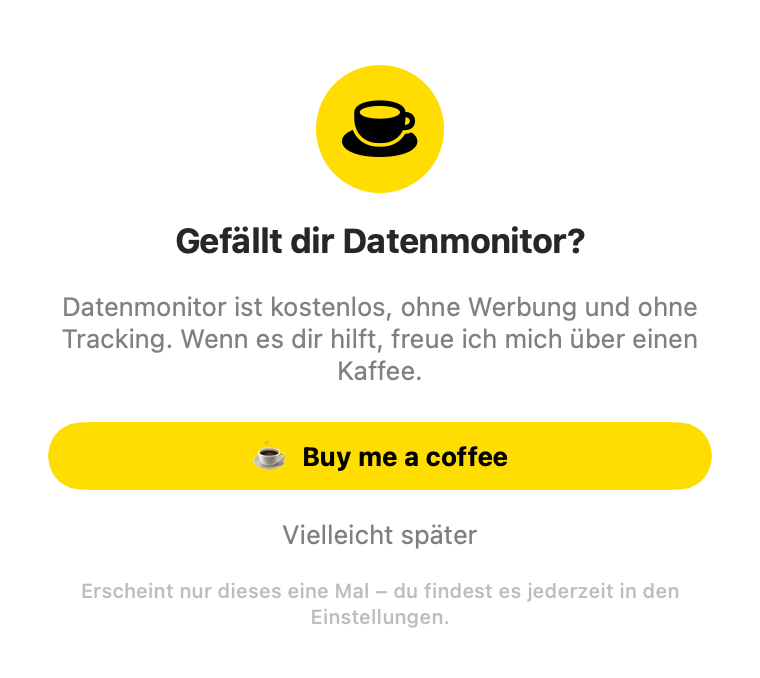
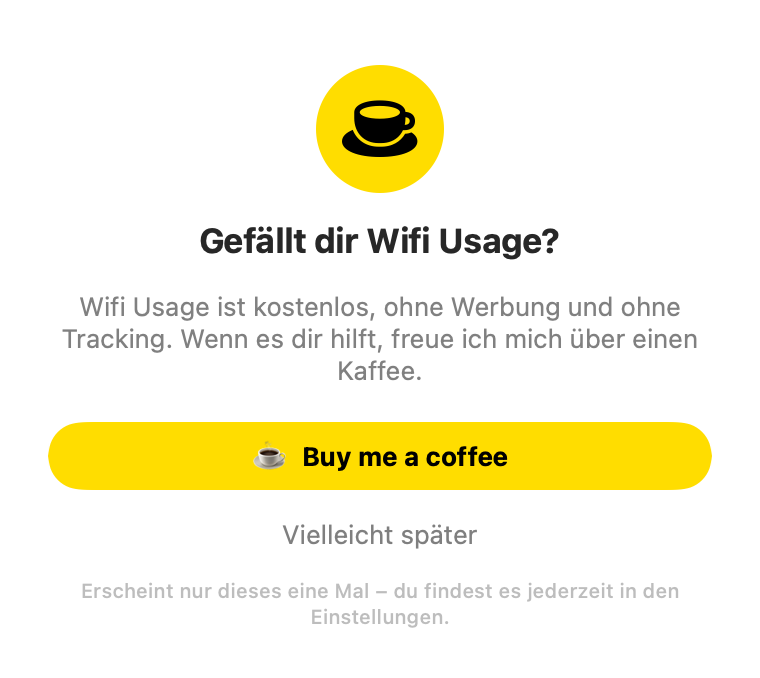
Umbenannt in Wifi Usage (Version 2.4)
App heißt sichtbar 'Wifi Usage' (Wifi Usage.app, Menü, Dialoge, README, Screenshots),
Quelldatei WifiUsage.swift. Interne Kennungen (Bundle-ID, Datenordner, Schlüsselbund,
launchd-Label) bleiben, damit Ortungsfreigabe, Passwörter und Verlauf erhalten bleiben.

Changed region(s): [[0.0605, 0.4336, 0.9382, 0.4956], [0.2118, 0.3097, 0.7868, 0.4027]]

diff --git a/WifiUsage.swift b/WifiUsage.swift
@@ -1,4 +1,4 @@
-// DatenmonitorWidget.swift
+// WifiUsage.swift
 // ---------------------------------------------------------------------------
 // Menüleisten-Widget für den WLAN-Datenverbrauch — im Stats-Stil.
 // Oben klein der WLAN-Name, darunter der Verbrauch (GB) im laufenden Monat
@@ -9,7 +9,7 @@
 //
 // Netz-Erkennung:
 //   - Name = echte SSID über CoreWLAN. macOS gibt sie nur mit Ortungsdienste-Freigabe
-//     heraus, deshalb läuft das Widget als kleine Datenmonitor.app (siehe install-widget.sh).
+//     heraus, deshalb läuft das Widget als kleine Wifi Usage.app (siehe install-widget.sh).
 //   - Router-MAC (via `arp`) wird der SSID zugeordnet, damit ältere Einträge
 //     (vor der Freigabe gezählt) automatisch unter dem echten Namen zusammenlaufen.
 //
@@ -34,7 +34,7 @@ let SAMPLE_INTERVAL: TimeInterval = 20
 let GIB: Double = 1_073_741_824
 let SSID_PREFIX = "ssid:"          // Schlüssel für Netze mit bekannter SSID: "ssid:<Name>"
 let UNKNOWN_KEY = "unbekannt"       // weder SSID noch Router-MAC ermittelbar
-let APP_VERSION = "2.3"
+let APP_VERSION = "2.4"
 
 // Buy Me a Coffee: hier deinen eigenen Link eintragen (Anleitung in der README).
 let COFFEE_URL = "https://buymeacoffee.com/suntinger"
@@ -381,9 +381,9 @@ struct WifiCredentials: Codable {
     var password: String
 }
 
-/// WLAN-Zugangsdaten, die du in Datenmonitor eingegeben hast — alle zusammen in **einem**
-/// Eintrag deines Anmelde-Schlüsselbunds („Datenmonitor – WLAN-Zugangsdaten“). macOS speichert ihn
-/// verschlüsselt (entsperrt nur mit deinem Login); ohne Rückfrage lesen darf ihn nur Datenmonitor.
+/// WLAN-Zugangsdaten, die du in Wifi Usage eingegeben hast — alle zusammen in **einem**
+/// Eintrag deines Anmelde-Schlüsselbunds („Wifi Usage – WLAN-Zugangsdaten“). macOS speichert ihn
+/// verschlüsselt (entsperrt nur mit deinem Login); ohne Rückfrage lesen darf ihn nur Wifi Usage.
 /// Ein gemeinsamer Eintrag statt einem pro WLAN: Nach einem Update fragt macOS nur einmal nach,
 /// nicht für jedes Netz. Gelesen wird einmal, danach aus dem Speicher. Passwörter landen nie in
 /// Dateien, im Log oder in Prozess-Argumenten und werden erst nach erfolgreicher Verbindung gespeichert.
@@ -419,7 +419,7 @@ enum SavedPasswords {
         guard status == errSecSuccess, let data = out as? Data,
               let v = try? JSONDecoder().decode([String: WifiCredentials].self, from: data) else {
             unreadable = true
-            NSLog("Datenmonitor: gespeicherte WLAN-Zugangsdaten nicht lesbar (Status \(status)) – frage in dieser Sitzung nicht erneut")
+            NSLog("Wifi Usage: gespeicherte WLAN-Zugangsdaten nicht lesbar (Status \(status)) – frage in dieser Sitzung nicht erneut")
             return nil
         }
         cache = v
@@ -434,7 +434,7 @@ enum SavedPasswords {
         if status == errSecItemNotFound {
             var add = query(vaultService, vaultAccount)
             add[kSecValueData as String] = data
-            add[kSecAttrLabel as String] = "Datenmonitor – WLAN-Zugangsdaten"
+            add[kSecAttrLabel as String] = "Wifi Usage – WLAN-Zugangsdaten"
             add[kSecAttrAccessible as String] = kSecAttrAccessibleWhenUnlocked   // nur bei entsperrtem Mac
             status = SecItemAdd(add as CFDictionary, nil)
         }
@@ -780,7 +780,7 @@ final class AppController: NSObject, NSApplicationDelegate, NSMenuDelegate, CLLo
         // Ortungsdienste: nur nötig, damit macOS den WLAN-Namen herausgibt.
         location.delegate = self
         Prefs.shared.locationGranted = locationGranted
-        NSLog("Datenmonitor: Start, Ortungsstatus \(location.authorizationStatus.rawValue), SSID \(Wifi.iface?.ssid() == nil ? "nicht lesbar" : "lesbar")")
+        NSLog("Wifi Usage: Start, Ortungsstatus \(location.authorizationStatus.rawValue), SSID \(Wifi.iface?.ssid() == nil ? "nicht lesbar" : "lesbar")")
         if location.authorizationStatus == .notDetermined {
             NSApp.activate(ignoringOtherApps: true)
             location.requestWhenInUseAuthorization()
@@ -834,7 +834,7 @@ final class AppController: NSObject, NSApplicationDelegate, NSMenuDelegate, CLLo
     }
 
     func locationManagerDidChangeAuthorization(_ manager: CLLocationManager) {
-        NSLog("Datenmonitor: Ortungsstatus \(manager.authorizationStatus.rawValue), SSID \(Wifi.iface?.ssid() == nil ? "nicht lesbar" : "lesbar")")
+        NSLog("Wifi Usage: Ortungsstatus \(manager.authorizationStatus.rawValue), SSID \(Wifi.iface?.ssid() == nil ? "nicht lesbar" : "lesbar")")
         Prefs.shared.locationGranted = locationGranted
         refresh(); scanAsync()
     }
@@ -842,7 +842,7 @@ final class AppController: NSObject, NSApplicationDelegate, NSMenuDelegate, CLLo
     func prefsChanged() {
         updateTitle()
         overview.reload()
-        overviewWindow?.title = L("Datenmonitor – Übersicht", "Datenmonitor – Overview")
+        overviewWindow?.title = L("Wifi Usage – Übersicht", "Wifi Usage – Overview")
         settingsWindow?.title = L("Einstellungen", "Settings")
     }
 
@@ -1155,10 +1155,10 @@ final class AppController: NSObject, NSApplicationDelegate, NSMenuDelegate, CLLo
         if row.known && !secure {
             connect(ssid, attempt: {
                 let failure = CoreWiFi.joinKnown(ssid)
-                if let f = failure { NSLog("Datenmonitor: Verbinden mit \(ssid) fehlgeschlagen: \(f)") }
+                if let f = failure { NSLog("Wifi Usage: Verbinden mit \(ssid) fehlgeschlagen: \(f)") }
                 return failure
             }, retry: {
-                NSLog("Datenmonitor: \(ssid) nach 5 s nicht verbunden, neuer Versuch mit frischer Suche")
+                NSLog("Wifi Usage: \(ssid) nach 5 s nicht verbunden, neuer Versuch mit frischer Suche")
                 return CoreWiFi.joinKnown(ssid, freshScan: true)
             })
             return
@@ -1166,7 +1166,7 @@ final class AppController: NSObject, NSApplicationDelegate, NSMenuDelegate, CLLo
         // Offenes fremdes Netz: direkt.
         if !secure { joinWithPassword(ssid, credentials: nil, save: false); return }
 
-        // Geschützt: mit den in Datenmonitor gespeicherten Zugangsdaten, sonst einmal danach fragen.
+        // Geschützt: mit den in Wifi Usage gespeicherten Zugangsdaten, sonst einmal danach fragen.
         if let saved = saved, !enterprise || saved.username != nil {
             joinWithPassword(ssid, credentials: saved, save: false)
             return
@@ -1264,7 +1264,7 @@ final class AppController: NSObject, NSApplicationDelegate, NSMenuDelegate, CLLo
                 return nil
             }
             catch {
-                NSLog("Datenmonitor: Verbinden mit \(ssid) fehlgeschlagen: \(error.localizedDescription)")
+                NSLog("Wifi Usage: Verbinden mit \(ssid) fehlgeschlagen: \(error.localizedDescription)")
                 // Gleich ein zweiter Versuch mit frischer Suche: Hotspots scheitern beim ersten
                 // Mal oft kurz (Funkband-Wechsel), ohne dass das Passwort falsch wäre.
                 if !fresh { return attempt(fresh: true) }
@@ -1279,7 +1279,7 @@ final class AppController: NSObject, NSApplicationDelegate, NSMenuDelegate, CLLo
                 if save, let c = credentials {
                     DispatchQueue.global(qos: .utility).async {
                         if !SavedPasswords.set(ssid, c) {
-                            NSLog("Datenmonitor: Zugangsdaten für \(ssid) konnten nicht gespeichert werden")
+                            NSLog("Wifi Usage: Zugangsdaten für \(ssid) konnten nicht gespeichert werden")
                         }
                     }
                 }
@@ -1317,7 +1317,7 @@ final class AppController: NSObject, NSApplicationDelegate, NSMenuDelegate, CLLo
         joinAnimation = anim
         DispatchQueue.global(qos: .userInitiated).async {
             let started = Date()
-            NSLog("Datenmonitor: Wechsel zu \(ssid) gestartet (vorher: \(Wifi.iface?.ssid() ?? "kein WLAN"))")
+            NSLog("Wifi Usage: Wechsel zu \(ssid) gestartet (vorher: \(Wifi.iface?.ssid() ?? "kein WLAN"))")
             var lastMessage = attempt()
             var joined = false
             for step in 0..<30 {   // bis zu 15 s
@@ -1326,7 +1326,7 @@ final class AppController: NSObject, NSApplicationDelegate, NSMenuDelegate, CLLo
                 if step == 10, let retry = retry { lastMessage = retry() ?? lastMessage }   // nach 5 s einmal nachfassen
                 Thread.sleep(forTimeInterval: 0.5)
             }
-            NSLog("Datenmonitor: Wechsel zu \(ssid) " + (joined ? "verbunden" : "nicht verbunden")
+            NSLog("Wifi Usage: Wechsel zu \(ssid) " + (joined ? "verbunden" : "nicht verbunden")
                   + String(format: " nach %.1f s", Date().timeIntervalSince(started))
                   + (generation != self.joinGeneration ? " (überholt)" : ""))
             RunLoop.main.perform(inModes: [.common]) {
@@ -1399,7 +1399,7 @@ final class AppController: NSObject, NSApplicationDelegate, NSMenuDelegate, CLLo
 
     @objc func openOverview() {
         overview.reload()
-        show(&overviewWindow, title: L("Datenmonitor – Übersicht", "Datenmonitor – Overview"),
+        show(&overviewWindow, title: L("Wifi Usage – Übersicht", "Wifi Usage – Overview"),
              size: NSSize(width: 640, height: 760), resizable: true) { OverviewView(model: overview) }
     }
 
@@ -2499,8 +2499,8 @@ struct SettingsView: View {
             } header: {
                 Text(L("Berechtigungen", "Permissions"))
             } footer: {
-                Text(L("Die Ortungsdienste braucht macOS nur, um den WLAN-Namen herauszugeben – der Standort wird nie abgefragt. Datenmonitor liest nur die Netzwerkzähler des Systems und seinen eigenen Datenordner, daher ist kein Festplattenvollzugriff nötig.",
-                       "macOS only reveals the Wi-Fi name to apps with Location Services – your location is never requested. Datenmonitor only reads the system's network counters and its own data folder, so no Full Disk Access is needed."))
+                Text(L("Die Ortungsdienste braucht macOS nur, um den WLAN-Namen herauszugeben – der Standort wird nie abgefragt. Wifi Usage liest nur die Netzwerkzähler des Systems und seinen eigenen Datenordner, daher ist kein Festplattenvollzugriff nötig.",
+                       "macOS only reveals the Wi-Fi name to apps with Location Services – your location is never requested. Wifi Usage only reads the system's network counters and its own data folder, so no Full Disk Access is needed."))
                     .font(.caption).foregroundStyle(.secondary)
             }
 
@@ -2581,7 +2581,7 @@ struct SettingsView: View {
                 HStack(spacing: 12) {
                     CoffeeIcon(size: 36)
                     VStack(alignment: .leading, spacing: 2) {
-                        Text(L("Gefällt dir Datenmonitor?", "Enjoying Datenmonitor?")).fontWeight(.semibold)
+                        Text(L("Gefällt dir Wifi Usage?", "Enjoying Wifi Usage?")).fontWeight(.semibold)
                         Text(L("Spendier mir einen Kaffee ☕", "Buy me a coffee ☕"))
                             .font(.caption).foregroundStyle(.secondary)
                     }
@@ -2592,9 +2592,9 @@ struct SettingsView: View {
 
             Section {
                 HStack {
-                    Text("Datenmonitor \(APP_VERSION)").foregroundStyle(.secondary)
+                    Text("Wifi Usage \(APP_VERSION)").foregroundStyle(.secondary)
                     Spacer()
-                    Button(L("Datenmonitor beenden", "Quit Datenmonitor")) { NSApp.terminate(nil) }
+                    Button(L("Wifi Usage beenden", "Quit Wifi Usage")) { NSApp.terminate(nil) }
                 }
             }
         }
@@ -2655,10 +2655,10 @@ struct CoffeeView: View {
     var body: some View {
         VStack(spacing: 14) {
             CoffeeIcon(size: 64).padding(.top, 8)
-            Text(L("Gefällt dir Datenmonitor?", "Enjoying Datenmonitor?"))
+            Text(L("Gefällt dir Wifi Usage?", "Enjoying Wifi Usage?"))
                 .font(.title2.bold())
-            Text(L("Datenmonitor ist kostenlos, ohne Werbung und ohne Tracking. Wenn es dir hilft, freue ich mich über einen Kaffee.",
-                   "Datenmonitor is free, with no ads and no tracking. If it helps you, I'd be happy about a coffee."))
+            Text(L("Wifi Usage ist kostenlos, ohne Werbung und ohne Tracking. Wenn es dir hilft, freue ich mich über einen Kaffee.",
+                   "Wifi Usage is free, with no ads and no tracking. If it helps you, I'd be happy about a coffee."))
                 .multilineTextAlignment(.center)
                 .foregroundStyle(.secondary)
                 .fixedSize(horizontal: false, vertical: true)

diff --git a/README.md b/README.md
@@ -1,4 +1,4 @@
-# Datenmonitor-Widget für macOS
+# Wifi Usage für macOS
 
 Ein winziges Menüleisten-Widget im **Stats-Stil**: oben dünn der **echte WLAN-Name**, darunter
 der Datenverbrauch (GB) dieses Netzes im laufenden Monat. Ein Klick zeigt den Verbrauch des
@@ -42,14 +42,18 @@ Darstellung, Berechtigungen). Braucht **keinen Festplattenvollzugriff**.
 
 ## Technik
 
-Ein einziges Swift-File, kompiliert mit Apples `swiftc` zu einer kleinen `Datenmonitor.app`. Keine Fremdsoftware, kein
+Ein einziges Swift-File, kompiliert mit Apples `swiftc` zu einer kleinen `Wifi Usage.app`. Keine Fremdsoftware, kein
 SwiftBar/xbar, kein Netzwerkzugriff, keine Telemetrie. Daten rein lokal unter
 `~/Library/Application Support/Datenmonitor/usage.json`.
 
+> Bis Version 2.3 hieß die App „Datenmonitor“. Interne Kennungen heißen weiterhin so
+> (Bundle-ID `at.datenmonitor.widget`, Datenordner `~/Library/Application Support/Datenmonitor`),
+> damit Ortungsfreigabe, gespeicherte WLAN-Passwörter und der Verbrauchsverlauf erhalten bleiben.
+
 ## Dateien
 
-- `DatenmonitorWidget.swift` — kompletter Quellcode (Widget **und** Tracker in einem)
-- `install-widget.sh` — baut **einmal** die `Datenmonitor.app` und richtet den Autostart ein
+- `WifiUsage.swift` — kompletter Quellcode (Widget **und** Tracker in einem)
+- `install-widget.sh` — baut **einmal** die `Wifi Usage.app` und richtet den Autostart ein
 - `at.datenmonitor.widget.plist` — launchd-Vorlage (Autostart nach Login)
 - `AppIcon.icns` — App-Icon (Apples WLAN-Symbol in Blau, transparenter Hintergrund)
 
@@ -62,7 +66,7 @@ chmod +x install-widget.sh
 ./install-widget.sh
 ```
 
-Das baut `~/Applications/Datenmonitor.app` (ad-hoc signiert), lädt den launchd-Agent
+Das baut `~/Applications/Wifi Usage.app` (ad-hoc signiert), lädt den launchd-Agent
 und startet das Widget. **Beim ersten Start fragt macOS nach den Ortungsdiensten — bitte
 erlauben**, sonst gibt macOS den WLAN-Namen nicht heraus (siehe unten). Es erscheint oben rechts in der Menüleiste und startet künftig
 automatisch nach dem Login — **ohne erneutes Kompilieren**. `swiftc` läuft nur beim
@@ -76,7 +80,7 @@ xcode-select --install
 
 ## Update (neuer Code)
 
-Neuen Code in `DatenmonitorWidget.swift` einfügen, dann `./install-widget.sh`. Das Skript
+Neuen Code in `WifiUsage.swift` einfügen, dann `./install-widget.sh`. Das Skript
 entlädt die laufende Version selbst und startet die neue. Die App wird mit einer festen
 Anforderung (nur Bundle-ID) signiert, daher bleibt die Ortungsdienste-Freigabe über Neubauten
 erhalten. (Vor Version 2.2 ging sie bei jedem Neubau verloren — dann fehlte der WLAN-Name und
@@ -116,24 +120,24 @@ Klick öffnet ein Menü im Stil des macOS-WLAN-Menüs (siehe Screenshots oben):
   gespeicherte Netze in Reichweite oder „Keine weiteren Netzwerke" (frische Netzsuche;
   kurz nicht gefundene Netze bleiben 30 Sekunden stehen, damit schwache Netze nicht flackern), per Klick auf- und
   zuklappbar (das Menü bleibt dabei offen). Klick auf ein Netz verbindet; bei geschützten
-  Netzen fragt Datenmonitor nach dem Passwort und verbindet über CoreWLAN.
+  Netzen fragt Wifi Usage nach dem Passwort und verbindet über CoreWLAN.
 - Klick auf ein Netz verbindet, Klick auf das verbundene öffnet die Übersicht. Beim Wechseln
   und beim Ein-/Ausschalten bleibt das Menü offen: Im Symbolkreis des Netzes dreht sich ein
   Warte-Kreis, in der Menüleiste laufen die WLAN-Balken (wie bei Apple), danach rückt der
   blaue Kreis um.
-- **Bekannte Netze verbinden:** Datenmonitor nutzt dieselbe interne Schnittstelle wie Apples
+- **Bekannte Netze verbinden:** Wifi Usage nutzt dieselbe interne Schnittstelle wie Apples
   WLAN-Menü (CoreWiFi) und verbindet über das gespeicherte Netzprofil, meist in unter einer
   Sekunde.
   - **Offene Netze** (z. B. Café-WLAN): ganz ohne Abfrage.
   - **Geschützte Netze** (WPA, z. B. A1, Gast, iPhone-Hotspot): Beim ersten Wechsel fragt
-    Datenmonitor einmal nach dem **WLAN-Passwort** (nicht dem Mac-Passwort). Mit „Passwort merken"
+    Wifi Usage einmal nach dem **WLAN-Passwort** (nicht dem Mac-Passwort). Mit „Passwort merken"
     wird es als eigener Eintrag in deinem **Anmelde-Schlüsselbund** gespeichert — verschlüsselt,
-    ohne Rückfrage lesbar nur für Datenmonitor, nie in Dateien, Log oder Befehlszeilen, und erst
+    ohne Rückfrage lesbar nur für Wifi Usage, nie in Dateien, Log oder Befehlszeilen, und erst
     nachdem die Verbindung damit geklappt hat. Danach wechselt ein Klick ohne Abfrage (über die
     öffentliche CoreWLAN-Schnittstelle). Hat sich das Passwort geändert, steht „Passwort prüfen –
     nochmal klicken"; das alte wird erst ersetzt, wenn das neue funktioniert. Verwalten und
     löschen: Einstellungen › Gespeicherte WLAN-Passwörter.
-  - **Was ein Netz verlangt, erkennt Datenmonitor selbst** — der Reihe nach aus der aktuellen
+  - **Was ein Netz verlangt, erkennt Wifi Usage selbst** — der Reihe nach aus der aktuellen
     Suchliste, dem System-Zwischenspeicher, dem von macOS gespeicherten Profil und zuletzt einer
     gezielten Suche: offen oder OWE („Enhanced Open", verschlüsselt ohne Passwort) → keine
     Abfrage; WPA/WPA2/WPA3-Personal → nur Passwort; Enterprise → Benutzername + Passwort.
@@ -147,12 +151,12 @@ Klick öffnet ein Menü im Stil des macOS-WLAN-Menüs (siehe Screenshots oben):
   - **Die Abfrage selbst ist bewusst kurz** („Passwort eingeben.“ bzw. „Benutzername und
     Passwort eingeben.“, dazu „merken“). Was beim Merken passiert: Die Zugangsdaten landen
     verschlüsselt in deinem Anmelde-Schlüsselbund, ohne Rückfrage lesen kann sie nur
-    Datenmonitor, und gespeichert wird erst, wenn die Verbindung damit geklappt hat.
-    Alle Zugangsdaten liegen zusammen in **einem** Eintrag („Datenmonitor – WLAN-Zugangsdaten“).
+    Wifi Usage, und gespeichert wird erst, wenn die Verbindung damit geklappt hat.
+    Alle Zugangsdaten liegen zusammen in **einem** Eintrag („Wifi Usage – WLAN-Zugangsdaten“).
     Der Schlüsselbund bindet die Freigabe an genau diese Programmversion: Nach einem Update fragt
     macOS **einmal** nach (nicht pro Netz) — Mac-Passwort eingeben, „Immer erlauben“ wählen.
-    Danach liest Datenmonitor den Eintrag einmal und arbeitet aus dem Speicher. Lehnst du die
-    Abfrage ab, fragt Datenmonitor bis zum nächsten Start (oder bis du die Einstellungen öffnest)
+    Danach liest Wifi Usage den Eintrag einmal und arbeitet aus dem Speicher. Lehnst du die
+    Abfrage ab, fragt Wifi Usage bis zum nächsten Start (oder bis du die Einstellungen öffnest)
     nicht erneut — es gibt keine Abfrage-Schleife. Prüfung und Schlüsselbund laufen im
     Hintergrund, das Menü friert dabei nicht ein. Einzeleinträge
     älterer Versionen (bis 2.2) werden beim ersten Zugriff übernommen und gelöscht.
@@ -205,7 +209,7 @@ Klick öffnet ein Menü im Stil des macOS-WLAN-Menüs (siehe Screenshots oben):
 - **Berechtigungen:** Status der Ortungsdienste (mit Knopf zum Erlauben). Festplattenvollzugriff
   ist **nicht nötig**: Das Widget liest nur die Netzwerkzähler des Systems (`netstat`, `arp`,
   `networksetup`) und seinen eigenen Ordner unter `Application Support`.
-- **Gespeicherte WLAN-Passwörter:** alle Netze, deren Zugangsdaten in Datenmonitor gespeichert
+- **Gespeicherte WLAN-Passwörter:** alle Netze, deren Zugangsdaten in Wifi Usage gespeichert
   sind — Passwort und ggf. Benutzername zunächst verdeckt. Jedes Netz hat ein **Auge zum Ein-
   und Ausblenden**. Das erste Einblenden fragt nach **Touch ID** (ersatzweise Mac-Passwort) und
   entsperrt für **60 Sekunden**: In der Zeit lassen sich beliebige Netze ohne neue Abfrage ein-
@@ -214,7 +218,7 @@ Klick öffnet ein Menü im Stil des macOS-WLAN-Menüs (siehe Screenshots oben):
   60 Sekunden wieder. Einzelne Einträge lassen sich löschen. (Passwörter, die nur Apple
   gespeichert hat: Systemeinstellungen › WLAN › Netz › „Passwort kopieren“.)
 - **Daten:** Datenordner im Finder zeigen.
-- **Unterstützen:** Buy-Me-a-Coffee-Knopf, dazu Version und „Datenmonitor beenden".
+- **Unterstützen:** Buy-Me-a-Coffee-Knopf, dazu Version und „Wifi Usage beenden".
 
 Beim allerersten Start erscheint einmal ein kleines **Buy-Me-a-Coffee-Fenster**
 („Vielleicht später" oder Fenster schließen genügt; danach nur noch in den Einstellungen).
@@ -273,12 +277,12 @@ In `render`:
 1. Auf [buymeacoffee.com](https://buymeacoffee.com) „Start my page" wählen und registrieren
    (E-Mail oder Google). Dabei einen **Benutzernamen** festlegen — deine Seite heißt dann
    `https://buymeacoffee.com/<benutzername>`.
-2. Seite kurz ausfüllen: Profilbild, ein Satz zu Datenmonitor, Preis pro Kaffee (z. B. 3 €).
+2. Seite kurz ausfüllen: Profilbild, ein Satz zu Wifi Usage, Preis pro Kaffee (z. B. 3 €).
 3. **Auszahlung verbinden** (in deinem BMC-Dashboard unter den Auszahlungs-/Payout-Einstellungen,
    über Stripe Express). **Ohne verbundene Auszahlung ist die Seite versteckt** — Besucher sehen
    nur „Follow", aber keinen Bezahlknopf. Erst sammeln und später verbinden geht also nicht. Buy Me a Coffee
    behält laut eigener Angabe eine kleine Gebühr (rund 5 %) plus Zahlungsgebühren ein.
-4. In `DatenmonitorWidget.swift` ganz oben den Link eintragen:
+4. In `WifiUsage.swift` ganz oben den Link eintragen:
 
    ```swift
    let COFFEE_URL = "https://buymeacoffee.com/deinname"
@@ -327,7 +331,7 @@ für die Kontrolle ausgehender Verbindungen zuständig, das Widget zeigt den Ver
 
 ```bash
 launchctl bootout gui/$(id -u)/at.datenmonitor.widget
-rm -rf ~/Applications/Datenmonitor.app
+rm -rf ~/Applications/Wifi\ Usage.app
 rm ~/Library/LaunchAgents/at.datenmonitor.widget.plist
 rm -rf ~/Library/Application\ Support/Datenmonitor   # optional: Daten löschen
 ```
